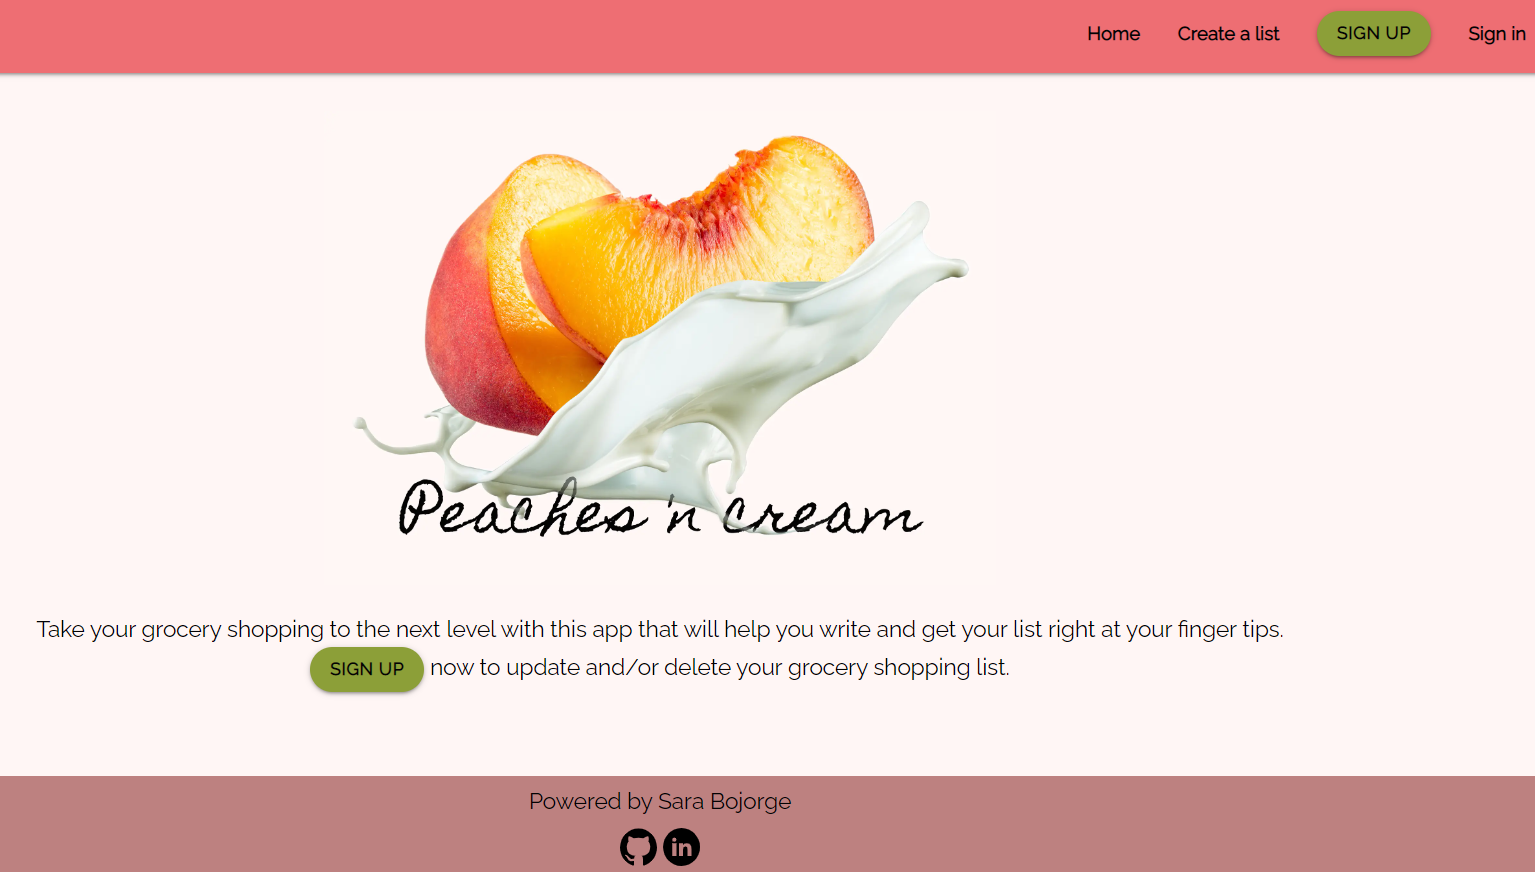
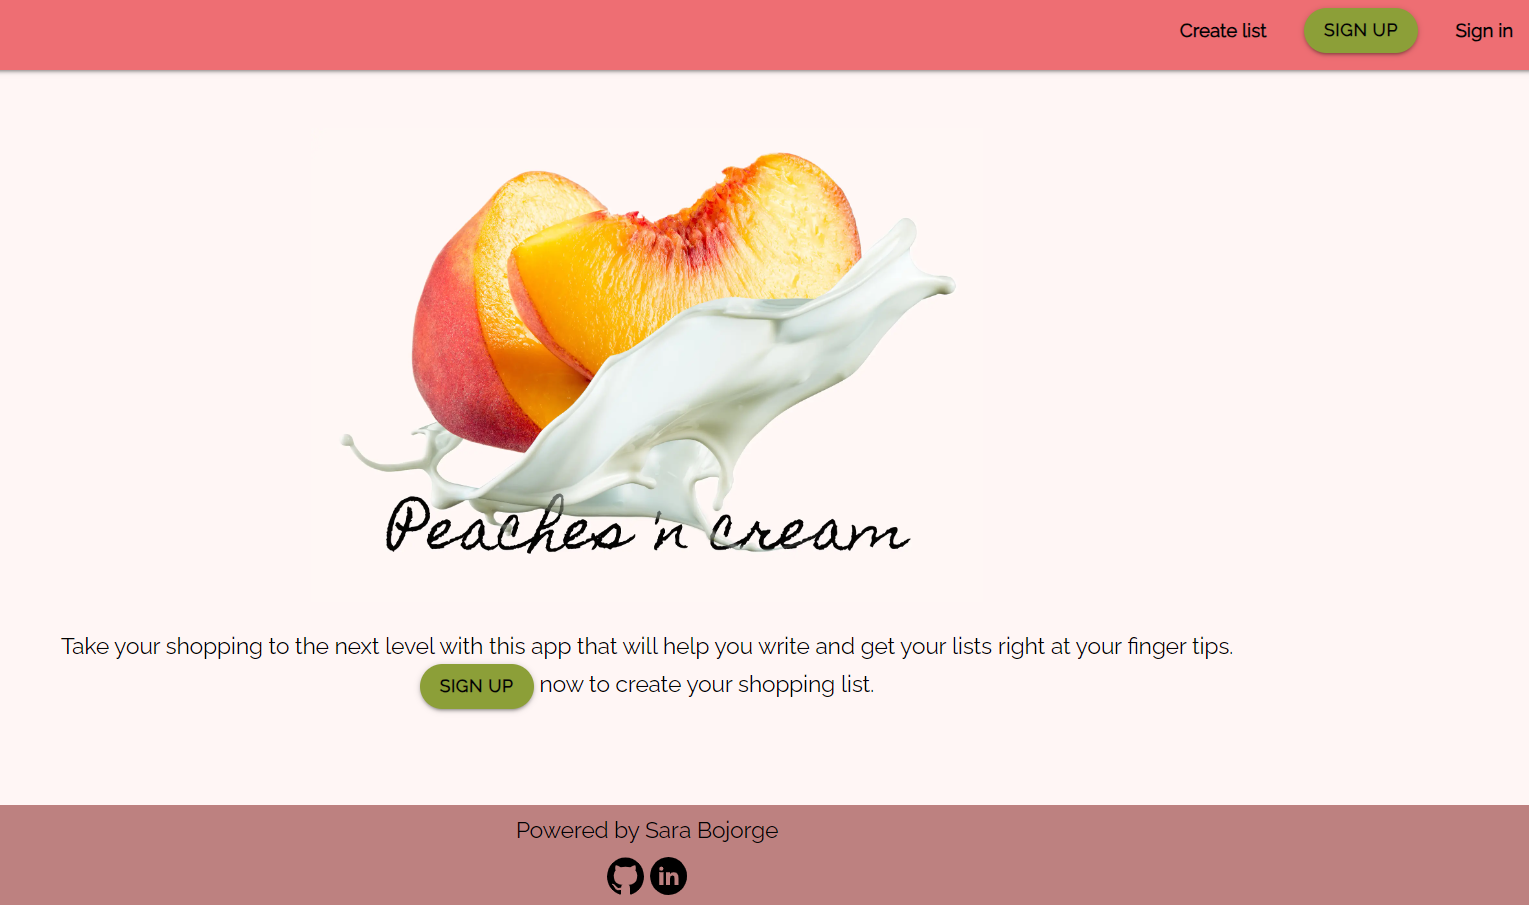
Add images for supporting documentation

diff --git a/grocery_list/models.py b/grocery_list/models.py
@@ -17,7 +17,7 @@ class Grocery(models.Model):
                   ("wishlist", "Wishlist"),
                   ("none", "I don't want a category")]
 
-    name = models.CharField(max_length=500, default='My grocery list')
+    name = models.CharField(max_length=500, default='My shopping list')
     category = models.CharField(max_length=20, choices=CATEGORIES,
                                 default='groceries')
     shop = models.CharField(max_length=500, blank=True)

diff --git a/grocery_list/migrations/0004_alter_grocery_name.py b/grocery_list/migrations/0004_alter_grocery_name.py
@@ -1,0 +1,18 @@
+# Generated by Django 3.2.20 on 2023-08-09 15:43
+
+from django.db import migrations, models
+
+
+class Migration(migrations.Migration):
+
+    dependencies = [
+        ('grocery_list', '0003_alter_grocery_category'),
+    ]
+
+    operations = [
+        migrations.AlterField(
+            model_name='grocery',
+            name='name',
+            field=models.CharField(default='My shopping list', max_length=500),
+        ),
+    ]

diff --git a/README.md b/README.md
@@ -12,20 +12,9 @@ Please click here to visit the deployed site [Peachesncream](https://newpeachesn
 
 ![Responsiveness](/static/images/design/picture_3.png)
 
-
-2. Methodology
-    Epic and User stories     
-
-    
-4. Features
-    - Existing features (develop)
-    - Features to be implemented
-
-
-
-[Back to top 🔺](#peachesncream)
-
 ------
+ 
+[Back to top 🔺](#peachesncream)
 
 ## Technologies used
 The web application was built using Django 3.2.
@@ -53,12 +42,13 @@ In addition the following were used for the development of this project:
 ### Methodology
 The methodology used in this project is the Kanban Agile management methodology.
 
-It was put in place using different functionalities in GitHub: 
+> Kanban is an Agile management method built on a philosophy of continuous improvement, where work items are “pulled” from a product backlog into a steady flow of work. The framework is applied using Kanban boards—a form of visual project management. In a Kanban board, tasks—represented as cards—move through stages of work—represented as columns...“To do,” “In progress,” and “Done.” Each column is filled with visual cards that represent individual tasks. A team moves through the columns until the tasks are completed.
+
+The methodology was put in place using different functionalities in GitHub: 
 * Issues, for the user stories;
 * Milestone (without due date), for the product backlog;
 * Milestone (WITH due date), for each iteration;
 * Project, for the Kanban board.
-> Kanban is an Agile management method built on a philosophy of continuous improvement, where work items are “pulled” from a product backlog into a steady flow of work. The framework is applied using Kanban boards—a form of visual project management. In a Kanban board, tasks—represented as cards—move through stages of work—represented as columns...“To do,” “In progress,” and “Done.” Each column is filled with visual cards that represent individual tasks. A team moves through the columns until the tasks are completed.
 
 ![project](/static/images/agile/picture_1.png)
 
@@ -68,6 +58,15 @@ It was put in place using different functionalities in GitHub:
 
 ## Design
 ### Database schema
+
+The database is composed of 3 models (2 are customised, which meets the assessment criteria of a "minimum of one custom model"): 
+
+- User,
+- Grocery_list,
+- Contact.
+
+The User model is at center, being connected to the 2 others by the id.<br>
+There isn't any direct relation between the Grocery_list and Contact models.
 
 ![db](/static/images/db_schema/picture_1.png)
 
@@ -117,19 +116,26 @@ This combination in the background colors and fonts adds freshness and respect t
 
 The application counts with the following features:
 
-* Landing page
+### Landing page
+This is the cover of the application.<br>
+Logo and a brief explanation about the purpose of the app can be found here as well as a Sign up button.
 
 ![Landing page on desktop](/static/images/features/picture_1.png)
 
 ![Landing page on mobile](/static/images/features/picture_2.png)
 
-* Navigation bar
+The page also includes:
 
-This element holds 3 links in the landing page: Home, Sign up and Sign in
+#### Navigation bar
+This element has 3 links for unauthenticated users: Create list, Sign up and Sign in.
 
 ![Desktop navbar](/static/images/features/picture_3.png)
 
-On medium and small devices, the navigation bar gets collapsed into a hamburguer icon:
+And 5 links for authenticated users: Home, Logout, Add list, My lists and Contact.
+
+![Desktop navbar](/static/images/features/picture_3a.png)
+
+On medium and small devices, the navigation is collapsed into a hamburguer icon:
 
 ![Hamburguer icon](/static/images/features/picture_4.png)
 
@@ -137,15 +143,125 @@ When the user clicks on that icon, the content of the navigation bar is displaye
 
 ![Navbar mobile](/static/images/features/picture_5.png)
 
-* Footer
-
+#### Footer
 This section, which is present in all pages of the application, holds social media icons to the GitHub and LinkedIn profiles of the developper:
 
 ![Footer](/static/images/features/picture_6.png)
 
+### Authentication pages:
+#### Sign up
+Users can create an account by clicking the Sign up button and completing the form:
+
+![signup](/static/images/features/picture_9.png)
+
+Warnings are displayed to the user in case of error:
+
+![signup](/static/images/features/picture_9a.png)
+
+After signing up, the user is redirected to the [Create shopping list](#addlist).
+
+#### Sign in
+Users can access their account, create and manage their shopping list by clicking the sign in button and completing the form:
+
+![signin](/static/images/features/picture_10.png)
+
+Warnings (color and text) are displayed to the user in case of error:
+
+![signin1](/static/images/features/picture_11.png)
+
+After signing in, a sucess message is displayed to the user and he/she is redirected to the Home page:
+
+![signin2](/static/images/features/picture_11a.png)
+
+The success message feature is also available upon submission of a valid form when:
+- adding a shopping list,
+- editing a shopping list,
+- deleting a shopping list and
+- logging out.
+
+### Home page
+A welcome message including the username of the authenticated user is displayed along with the number of the owned existing shopping lists (if any) and a button to access them.
+
+![Home1](/static/images/features/picture_8.png)
+
+If the user doesn't have any list the displayed button can redirect him/her to the "Create a shopping list" page:
+
+![Home2](/static/images/features/picture_7.png)
+
+### CRUD pages
+#### Add list (Create shopping list page)
+The authenticated user can create here any kind of shopping lists by completing the form and hitting the "Create button" at the end.<br>
+The form has the following fields:
+- Name of the list (optional), which has "My shopping list" as placeholder,
+- Category (optional), which has "Groceries" as placeholder,
+- Shop (optional), so the user can register where to buy/pick up the products,
+- Items (required), user can add quantity, brand or any other comment next to the item.<br>
+Widgets are available (number list, bullets, Undo, Redo, Fullscreen).
+
+![add1](/static/images/features/picture_12.png)
+
+![add2](/static/images/features/picture_12a.png)
+
+
+#### My lists (My shopping lists page)
+The authenticated user can retrieve the list of his/her owned shopping lists by clicking on "My lists" on the navbar.<br>
+Shopping lists are displayed in descending order.<br> An "Add" button (plus icon) is available as well in case the user wants to create a new list:
+
+ ![read1](/static/images/test/CRUD/picture_3.png)
+
+#### Edit a shopping list
+From the displayed list of owned shopping list, the user can see the detail of any list by clicking on its name.<br>
+An "Edit" button (pencil icon) is available.<br>
+
+![edit](/static/images/features/picture_14.png)
+
+#### Delete a shopping list
+In case the user wishes to delete the displayed list, the "Delete" button (trash icon) is available on this same page.
+
+![delete1](/static/images/features/picture_15.png)
+
+#### Delete confirmation page
+In order to prevent undesired deletion, a  delete confirmation page feature is provided:
+
+![delete2](/static/images/features/picture_15a.png)
+
+### Contact
+This feature is available for letting the user communicate with the developer which maintain the application.
+It can be used for suggestions, concerns, etc:
+
+![contact](/static/images/features/picture_16.png)
+
+### Preventive actions
+#### 403 page
+The user is unable to perform RUD actions (read, update, delete) on other user's shopping list.
+In case a user tries to access someone else shopping list, he/she is redirected to the 403 page:
+
+![403](/static/images/features/picture_17.png)
+
+#### Accesing the Sign up after logging in
+Authenticated users can't access the landing page nor the Sign up button via the URL:
+
+![redirects](/static/images/features/picture_17a.png)
+
+### Sign out
+When clicked, the "Logout" link, redirects the user to a "Sign out confirmation" page.<br>
+If confirmed, the user will be logged out.
+
+![signout](/static/images/features/picture_18.png)
+
 ------
 
 [Back to top 🔺](#peachesncream)
+
+## Features to be implemented
+
+1. Forgot password, as an aid to the sign in.
+2. An item category, so products can be better organized.
+3. A shop app, so users can create/add their favorite shops and details
+4. A cancel button for actions like adding, updating or deleting a shopping list
+5. Sharing lists with other users (like family members) so they can see/edit the shopping list as well.
+
+------
 
 ## Testing
 Follow this link for the documentation related to [tests](/TESTING.md).
